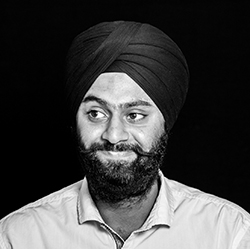
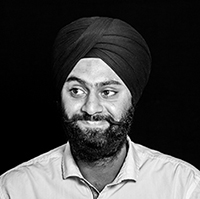
Replacement of profile picture.

diff --git a/index.html b/index.html
@@ -29,10 +29,9 @@
       <section id="intro-text" class="visuallyhidden">
         <div class="main">
           <picture>
-            <source srcset="img/gurpreet-singh_mid.jpg, gurpreet-singh_mid_retina.jpg 2x" media="(max-width: 768px)">
-            <source srcset="img/gurpreet-singh_mid.jpg, gurpreet-singh_mid_retina.jpg 2x" media="(max-width: 768px)">
+            <source srcset="img/gurpreet-singh_mid.jpg, img/gurpreet-singh_mid_retina.jpg 2x" media="(min-width: 768px)">
             <source srcset="img/gurpreet-singh_smaller.jpg, img/gurpreet-singh_smaller_retina.jpg 2x">
-            <img srcset="img/gurpreet-singh_smaller.jpg, gurpreet-singh_smaller_retina.jpg 2x" alt="Gurpreet Singh - Display Picture">
+            <img srcset="img/gurpreet-singh_smaller.jpg, img/gurpreet-singh_smaller_retina.jpg 2x" alt="Gurpreet Singh - Display Picture">
           </picture>
           <h1>Gurpreet Singh</h1>
           <p>a cool and creative web developer.</p>
